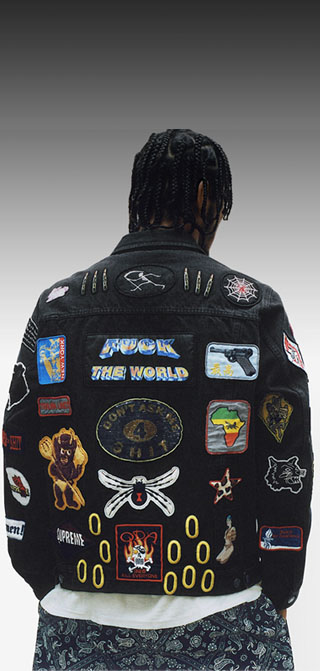
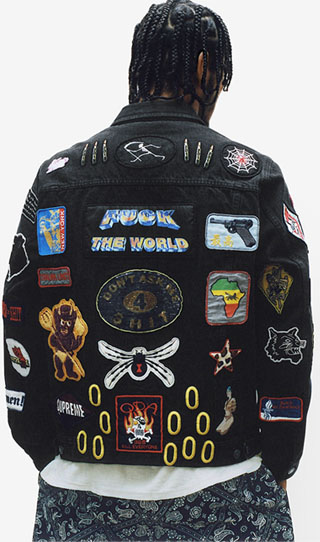
some fixes

diff --git a/app/sass/_main-slider.scss b/app/sass/_main-slider.scss
@@ -1,10 +1,11 @@
 .main-slider {
   position: relative;
+  font-size: 0;
 
   &__item {
-    background-size: cover;
+    background-position: right center;
+    background-size: contain;
     background-repeat: no-repeat;
-    background-position: center;
     height: 624px;
     padding-top: 253px;
 
@@ -13,6 +14,7 @@
       height: 671px;
       position: relative;
       text-align: center;
+      background-position: center bottom;
     };
   }
 

diff --git a/app/index.html b/app/index.html
@@ -47,6 +47,7 @@
 				<a href="#" class="nav__link nav__link--counter nav__link--mobile">cart <span class="nav__counter">3</span></a>
 			</div>
 		</header>
+		<div class="gradient-block"></div>
 		<main class="page-main">
 			<section class="main-slider">
 				<div class="main-slider__slider">

diff --git a/app/sass/_menu.scss b/app/sass/_menu.scss
@@ -5,13 +5,11 @@
   flex-wrap: wrap;
   justify-content: space-between;
   align-items: center;
-  padding-left: 30px;
   position: absolute;
   left: 0;
   top: 0;
   right: 0;
   z-index: 300;
-  padding-left: 111px;
 
   &__delivery {
     font-size: 14px;
